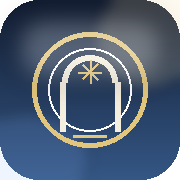
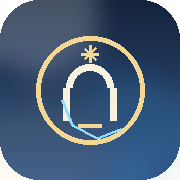
Add files via upload

diff --git a/app.js b/app.js
@@ -141,30 +141,26 @@ function header(a,back='back'){return `<header class="topbar"><button type="butt
 function tilesActivity(action){return `<div class="tiles">${ACTIVITIES.map(a=>`<button type="button" class="tile activity-tile" data-action="${action}" data-id="${a.id}"><span class="tile-symbol">${icon(a.icon)}</span><span class="title">${esc(a.name)}</span></button>`).join('')}</div>`;}
 function renderHome(){return `<section class="brand-card"><div class="row brand-lockup"><span class="brand-mark"><svg xmlns="http://www.w3.org/2000/svg" viewBox="0 0 512 512" aria-hidden="true" focusable="false" class="brand-logo-svg">
   <defs>
-    <linearGradient id="bg" x1="0" y1="0" x2="1" y2="1">
-      <stop offset="0%" stop-color="#111c31"/>
-      <stop offset="100%" stop-color="#355785"/>
+    <linearGradient id="ritualBg" x1="0" y1="0" x2="1" y2="1">
+      <stop offset="0%" stop-color="#14233c"/>
+      <stop offset="100%" stop-color="#32578b"/>
     </linearGradient>
-    <radialGradient id="glowA" cx="75%" cy="15%" r="55%">
-      <stop offset="0%" stop-color="#ffe6aa" stop-opacity="0.22"/>
-      <stop offset="100%" stop-color="#ffe6aa" stop-opacity="0"/>
-    </radialGradient>
-    <radialGradient id="glowB" cx="15%" cy="85%" r="55%">
-      <stop offset="0%" stop-color="#83b8ff" stop-opacity="0.18"/>
-      <stop offset="100%" stop-color="#83b8ff" stop-opacity="0"/>
+    <linearGradient id="ritualStroke" x1="0" y1="0" x2="1" y2="1">
+      <stop offset="0%" stop-color="#f3d58f"/>
+      <stop offset="100%" stop-color="#f8e7bf"/>
+    </linearGradient>
+    <radialGradient id="ritualGlow" cx="28%" cy="18%" r="70%">
+      <stop offset="0%" stop-color="#ffffff" stop-opacity="0.24"/>
+      <stop offset="100%" stop-color="#ffffff" stop-opacity="0"/>
     </radialGradient>
   </defs>
-  <rect width="512" height="512" rx="112" fill="url(#bg)"/>
-  <rect width="512" height="512" rx="112" fill="url(#glowA)"/>
-  <rect width="512" height="512" rx="112" fill="url(#glowB)"/>
-  <circle cx="256" cy="256" r="164" fill="none" stroke="#e3c67d" stroke-width="14"/>
-  <circle cx="256" cy="256" r="116" fill="none" stroke="#ffffff" stroke-opacity=".28" stroke-width="6"/>
-  <path d="M198 192a58 58 0 0 1 116 0" fill="none" stroke="#f4efdf" stroke-width="20" stroke-linecap="round"/>
-  <path d="M198 250v118" fill="none" stroke="#f4efdf" stroke-width="20" stroke-linecap="round"/>
-  <path d="M314 250v118" fill="none" stroke="#f4efdf" stroke-width="20" stroke-linecap="round"/>
-  <path d="M214 388h84" fill="none" stroke="#e3c67d" stroke-width="12" stroke-linecap="round"/>
-  <path d="M227 410h58" fill="none" stroke="#e3c67d" stroke-width="10" stroke-linecap="round"/>
-  <path d="M256 180v36M238 198h36M244 186l24 24M268 186l-24 24" fill="none" stroke="#e3c67d" stroke-width="10" stroke-linecap="round"/>
+  <rect width="512" height="512" rx="116" fill="url(#ritualBg)"/>
+  <rect width="512" height="512" rx="116" fill="url(#ritualGlow)"/>
+  <circle cx="256" cy="256" r="150" fill="none" stroke="url(#ritualStroke)" stroke-width="14" opacity="0.95"/>
+  <path d="M206 334V238c0-27 22-49 50-49s50 22 50 49v96" fill="none" stroke="#f7f1df" stroke-width="22" stroke-linecap="round" stroke-linejoin="round"/>
+  <path d="M222 350h68" fill="none" stroke="url(#ritualStroke)" stroke-width="14" stroke-linecap="round"/>
+  <path d="M256 154v26M243 167h26M247 158l18 18M265 158l-18 18" fill="none" stroke="url(#ritualStroke)" stroke-width="9" stroke-linecap="round"/>
+  <path d="M178 286c22 48 69 82 126 82 12 0 24-2 35-5" fill="none" stroke="#6fd3ff" stroke-width="10" stroke-linecap="round" opacity="0.78"/>
 </svg></span><h1 class="brand-title">RITUAIS</h1></div><button class="icon-button theme-trigger" type="button" data-action="open-themes" aria-label="Alterar cores" title="Alterar cores">${icon('palette')}</button></section><div class="tile-intro">${tilesActivity('start')}</div>`;}
 function renderRetro(){return `<div class="topbar"><button class="icon-button" data-action="back" aria-label="Voltar">${icon('back')}</button><strong class="activity-name">Novo registro</strong>${icon('clock','activity-icon')}</div>${tilesActivity('start-retro')}<p class="help mt">Data e horário poderão ser alterados no Histórico.</p>`;}
 function renderMoods(){const r=rec();if(!r)return renderHome();const a=ACT(r.activityId);const moods=activityMoods(a.id);return `${header(a)}<div class="tiles">${moods.map(m=>{const active=r.initialMoods.some(x=>x.id===m.id);return `<button type="button" class="tile mood-tile ${active?'active':''}" data-tone="${MOOD_TONES[m.name]||'violet'}" aria-pressed="${active}" data-action="toggle-initial-mood" data-id="${esc(m.id)}"><span class="tile-symbol">${icon(m.icon||MOOD_ICONS[m.name]||'circle')}</span><span class="title">${esc(m.name)}</span>${icon('check','checkmark')}</button>`;}).join('')}</div><div class="actions"><button class="btn" data-action="to-strategies" ${!r.initialMoods.length?'disabled':''}>Ver estratégias ${icon('right')}</button><button class="btn secondary" data-action="toggle-add-mood">${icon('plus')} Adicionar mood</button></div>${ui.addMood?moodEditorMarkup(null,'new'):''}<div class="mt-sm" style="text-align:center"><button class="muted-link" data-action="mood-manager">Gerenciar moods</button></div>`;}

diff --git a/styles.css b/styles.css
@@ -391,19 +391,20 @@ button{-webkit-tap-highlight-color:transparent;touch-action:manipulation}
   padding-bottom:34px;
 }
 .main.is-home{
-  justify-content:center;
-  gap:18px;
+  justify-content:flex-start;
+  gap:16px;
+  padding-top:calc(env(safe-area-inset-top,0px) + 14px);
 }
 .brand-card{
-  padding:15px 16px;
+  padding:14px 16px;
   border-radius:22px;
-  min-height:98px;
+  min-height:94px;
   gap:12px;
   box-shadow:0 16px 44px color-mix(in srgb,var(--ink) 7%,transparent);
 }
 .brand-lockup{min-width:0;gap:12px}
 .brand-mark{
-  width:60px;height:60px;border-radius:18px;
+  width:58px;height:58px;border-radius:18px;
   background:transparent;
   box-shadow:0 8px 25px color-mix(in srgb,var(--ink) 17%,transparent);
   overflow:hidden;
@@ -414,9 +415,10 @@ button{-webkit-tap-highlight-color:transparent;touch-action:manipulation}
   font-size:clamp(22px,6vw,29px);
   letter-spacing:.15em;
   font-weight:850;
-  line-height:1.2;
+  line-height:1.15;
+  transform:translateY(-1px);
 }
-.theme-trigger{width:43px;height:43px;border-radius:14px;box-shadow:none}
+.theme-trigger{width:43px;height:43px;border-radius:14px;box-shadow:none;align-self:center}
 .theme-trigger svg{width:21px;height:21px;color:var(--accent)}
 .tiles{gap:14px}
 .tile{
@@ -636,8 +638,8 @@ button[data-action="calendar-day"]{touch-action:manipulation}
 @media (max-width:380px){
   .main{padding-inline:14px}
   .brand-title{font-size:22px;letter-spacing:.11em}
-  .brand-mark{height:53px;width:53px;border-radius:17px}
-  .brand-card{min-height:86px;padding:13px}
+  .brand-mark{height:52px;width:52px;border-radius:17px}
+  .brand-card{min-height:84px;padding:12px 13px}
   .tiles{gap:10px}
   .tile{border-radius:19px}
   .tile-symbol{height:55px;width:55px;border-radius:17px}

diff --git a/index.html b/index.html
@@ -6,8 +6,8 @@
   <meta name="theme-color" content="#1f3656">
   <meta name="description" content="RITUAIS: atividades, moods e estratégias pessoais com design premium e personalização de cores.">
   <link rel="icon" href="assets/icone.svg?v=5" type="image/svg+xml">
-  <link rel="apple-touch-icon" href="assets/apple-touch-icon.png?v=5">
-  <link rel="manifest" href="manifest.webmanifest?v=5">
+  <link rel="apple-touch-icon" href="assets/apple-touch-icon.png?v=6">
+  <link rel="manifest" href="manifest.webmanifest?v=6">
   <link rel="stylesheet" href="styles.css?v=5">
   <title>RITUAIS</title>
   <script src="app.js?v=5" defer></script>

diff --git a/README.md b/README.md
@@ -91,3 +91,8 @@ HTML, CSS e JavaScript nativos, sem dependências externas. Armazenamento no nav
 O símbolo ao lado de **RITUAIS** agora é desenhado diretamente na página (SVG integrado), sem depender da imagem `assets/icone.svg`. Isso elimina a interrogação/ícone de imagem quebrada no Safari quando o arquivo não é carregado. Os ícones de instalação continuam na pasta `assets`.
 
 Substitua todos os arquivos do repositório pelos arquivos desta versão, mantendo o mesmo endereço do GitHub Pages. Antes da atualização, faça Backup completo.
+
+
+## Atualização do ícone no iPhone
+
+Se o atalho antigo na tela inicial do iPhone continuar mostrando o ícone anterior, apague o atalho antigo e adicione o RITUAIS novamente à tela inicial. O Safari pode manter o ícone anterior em cache mesmo após a atualização dos arquivos no GitHub Pages.
